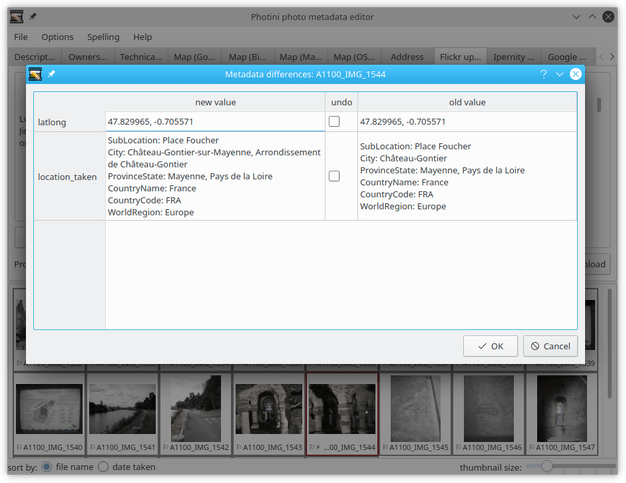
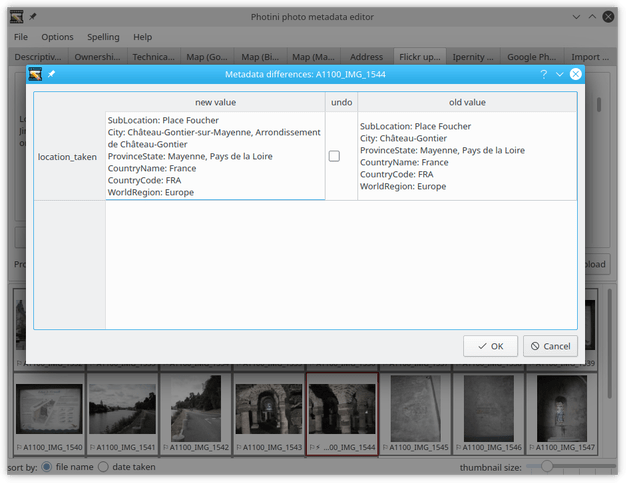
Minor update of uploader documentation

Changed region(s): [[0.0607, 0.2174, 0.8498, 0.4658], [0.1214, 0.0932, 0.9712, 0.1242], [0.0607, 0.2484, 0.1214, 0.2795]]

diff --git a/src/photini/__init__.py b/src/photini/__init__.py
@@ -1,4 +1,4 @@
 """Full documentation is at https://photini.readthedocs.io/"""
 
 __version__ = '2022.3.0'
-build = '2055 (80b3769)'
+build = '2056 (00e82fa)'

diff --git a/src/doc/manual/ipernity.rst b/src/doc/manual/ipernity.rst
@@ -73,12 +73,7 @@ Select the image(s) you would like to update and click the ``Synchronise`` butto
 
 If an image does not have a ``ipernity:id`` keyword then Photini will try to find the photograph on Ipernity by matching the date and time it was taken.
 If there is new metadata on Ipernity then it is merged into the image's metadata.
-
-.. image:: ../images/screenshot_241.png
-
 You can see what changed with the image's context menu ``View changes``.
-In this case Ipernity has made an insignificant change to the latitude or longitude.
-I chose to ignore the new metadata value.
 
 Synchronising Ipernity metadata to local
 ----------------------------------------

diff --git a/src/doc/manual/flickr.rst b/src/doc/manual/flickr.rst
@@ -85,8 +85,8 @@ If there is new metadata on Flickr then it is merged into the image's metadata.
 .. image:: ../images/screenshot_160.png
 
 You can see what changed with the image's context menu ``View changes``.
-In this case Flickr has made an insignificant change to the latitude or longitude, and set the location city to its new name of "Château-Gontier-sur-Mayenne".
-I chose to ignore these new metadata values.
+In this case Flickr has set the location city to its new name of "Château-Gontier-sur-Mayenne".
+I chose to ignore this new metadata.
 
 Synchronising Flickr metadata to local
 --------------------------------------
